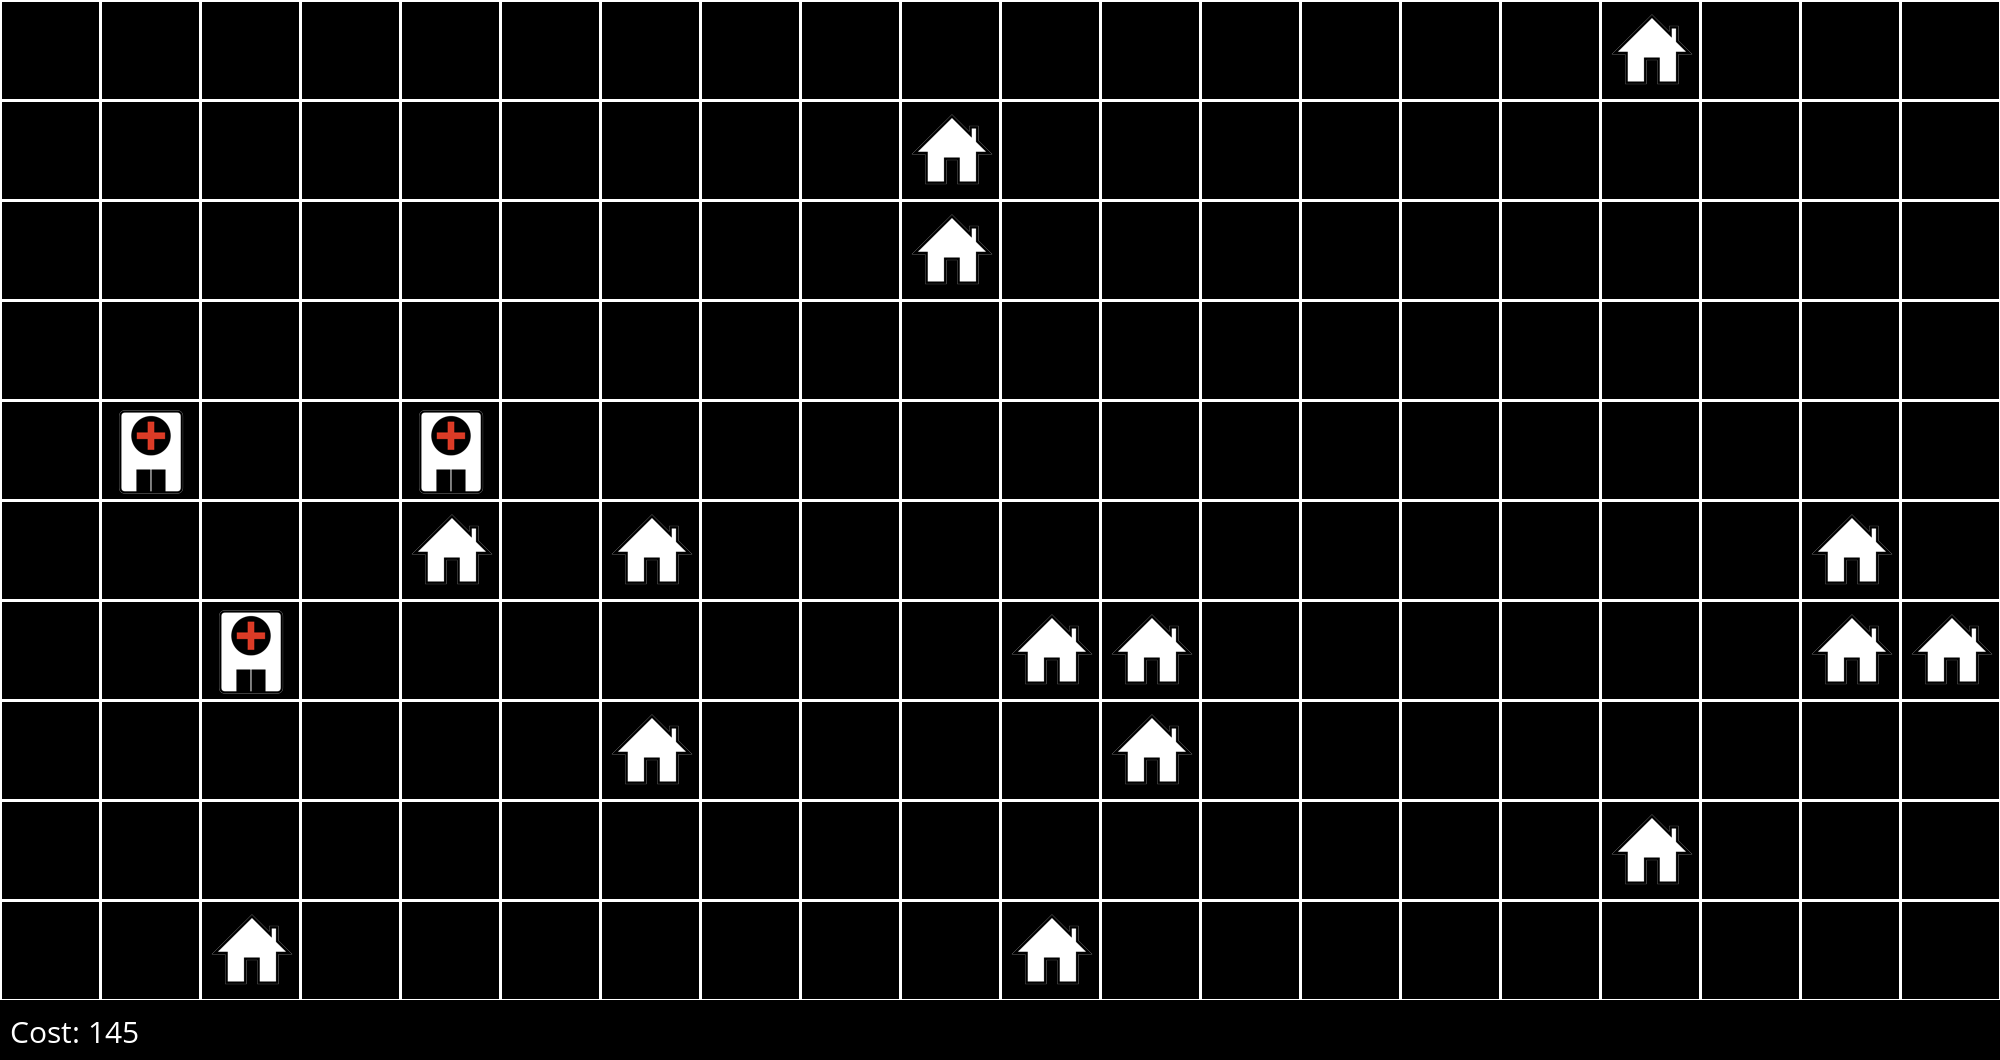
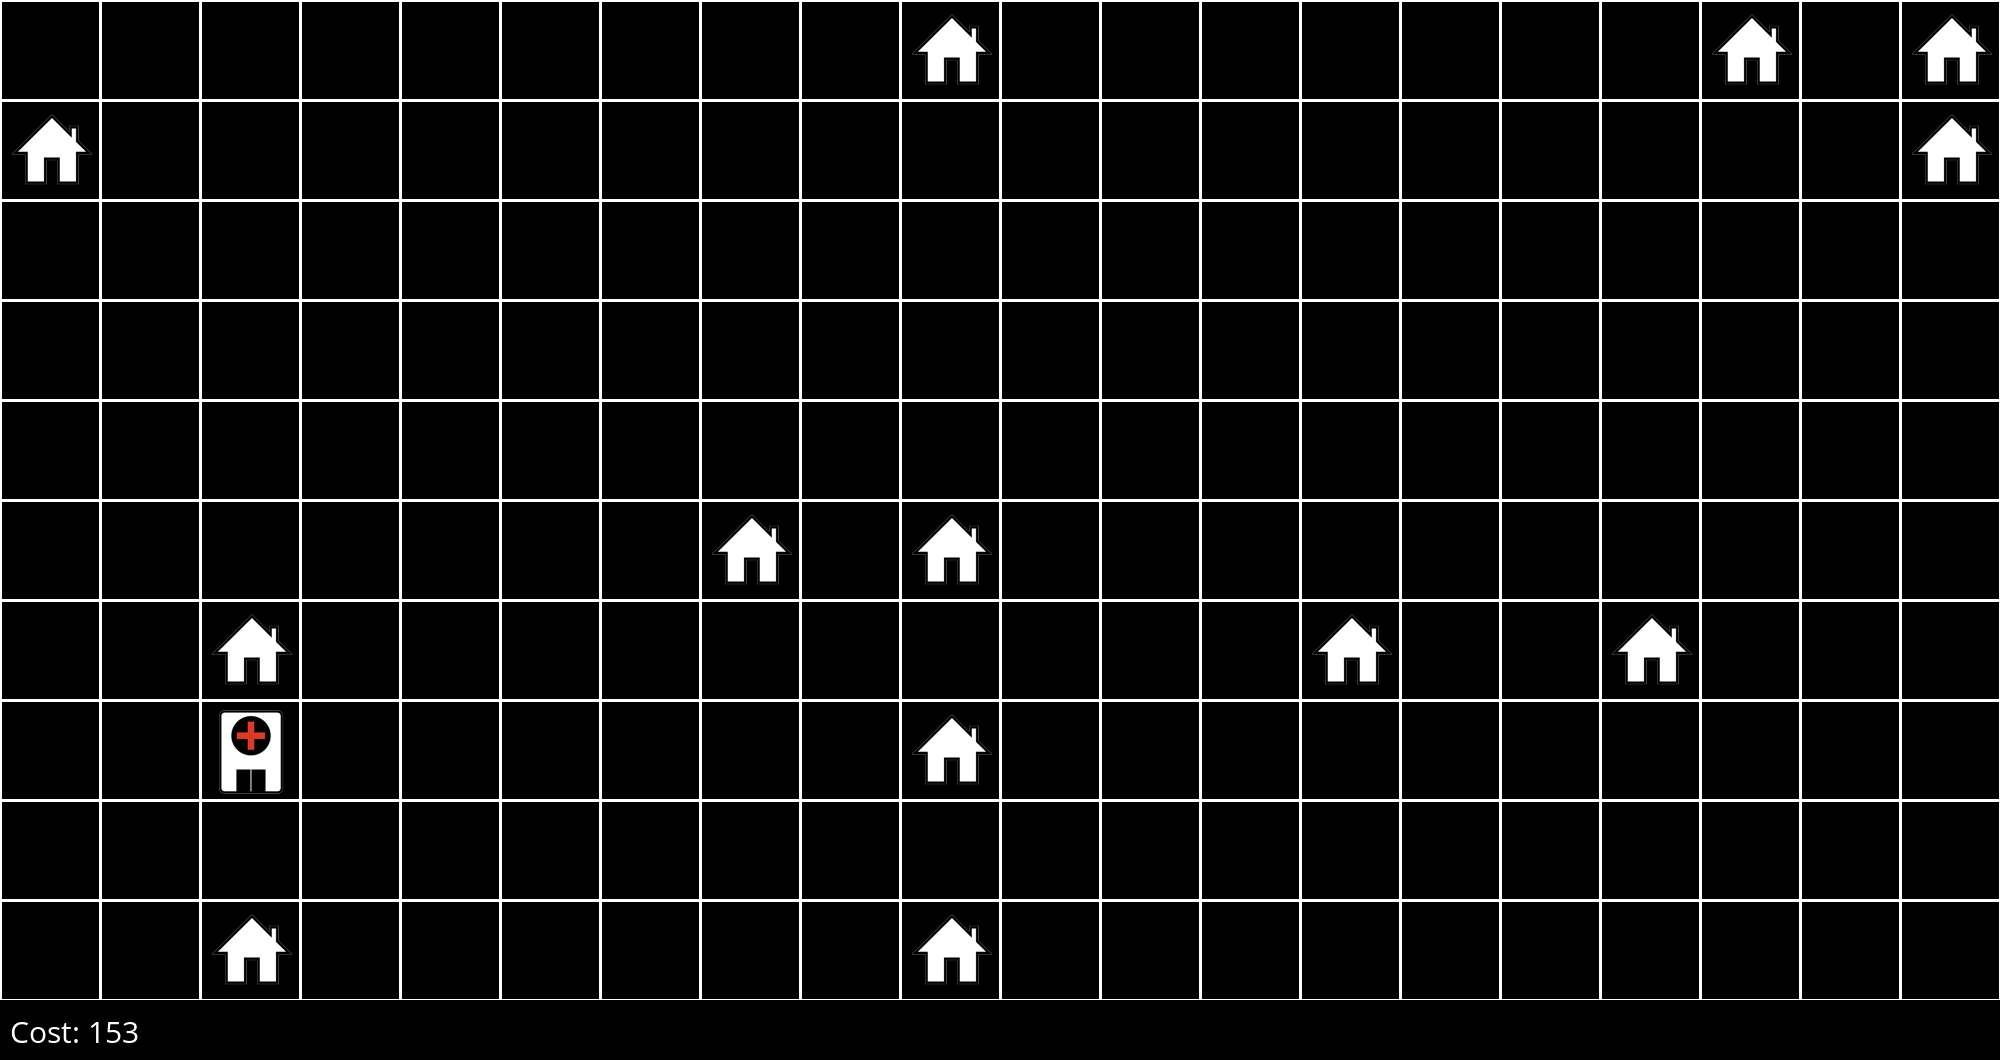
After running the code, beside seeing a grid map of the houses and hospital originally generated by the project as images, project must generate a heat grid map (2d or 3d) as python graph like visualization or image like visualization of the same grid size of houses and hospital, the value of "Heat"

diff --git a/hospitals.py b/hospitals.py
@@ -1,5 +1,6 @@
 import random
-
+import numpy
+import matplotlib.pyplot
 
 class Space():
 
@@ -189,11 +190,40 @@ class Space():
 
         img.save(filename)
 
+    def visualize_heat_grid(self, hospital):
+        heat_grid = numpy.zeros((self.height, self.width))
 
-# Create a new space and add houses randomly
-s = Space(height=10, width=20, num_hospitals=3)
+        for i in range(self.height):
+            for j in range(self.width):
+                """Calculating heat_grid values for every place summing the distance to the houses"""
+                heat_grid[i, j] = sum(
+                    abs(i - house[0]) + abs(j - house[1])
+                    for house in self.houses
+                )
+
+        return heat_grid
+
+    def output_heat_grid_image(self, heat_grid, filename):
+        matplotlib.pyplot.imshow(heat_grid, cmap='hot', interpolation='nearest')
+        matplotlib.pyplot.title('Heat Grid Map')
+        matplotlib.pyplot.colorbar(label='Heat Value')
+        matplotlib.pyplot.savefig(filename)
+        matplotlib.pyplot.close()
+
+
+""" Create a new space and add houses randomly"""
+s = Space(height=10, width=20, num_hospitals=1)
 for i in range(15):
     s.add_house(random.randrange(s.height), random.randrange(s.width))
 
-# Use local search to determine hospital placement
+""" Use local search to determine hospital placement"""
 hospitals = s.hill_climb(image_prefix="hospitals", log=True)
+
+""" Visualize the grid map with houses and hospitals"""
+s.output_image("last_map.png")
+
+""" Visualize the heat grid map"""
+""" Take the single hospital from the set"""
+heat_grid = s.visualize_heat_grid(hospitals.pop())  
+
+s.output_heat_grid_image(heat_grid, "heat_grid_map.png")
